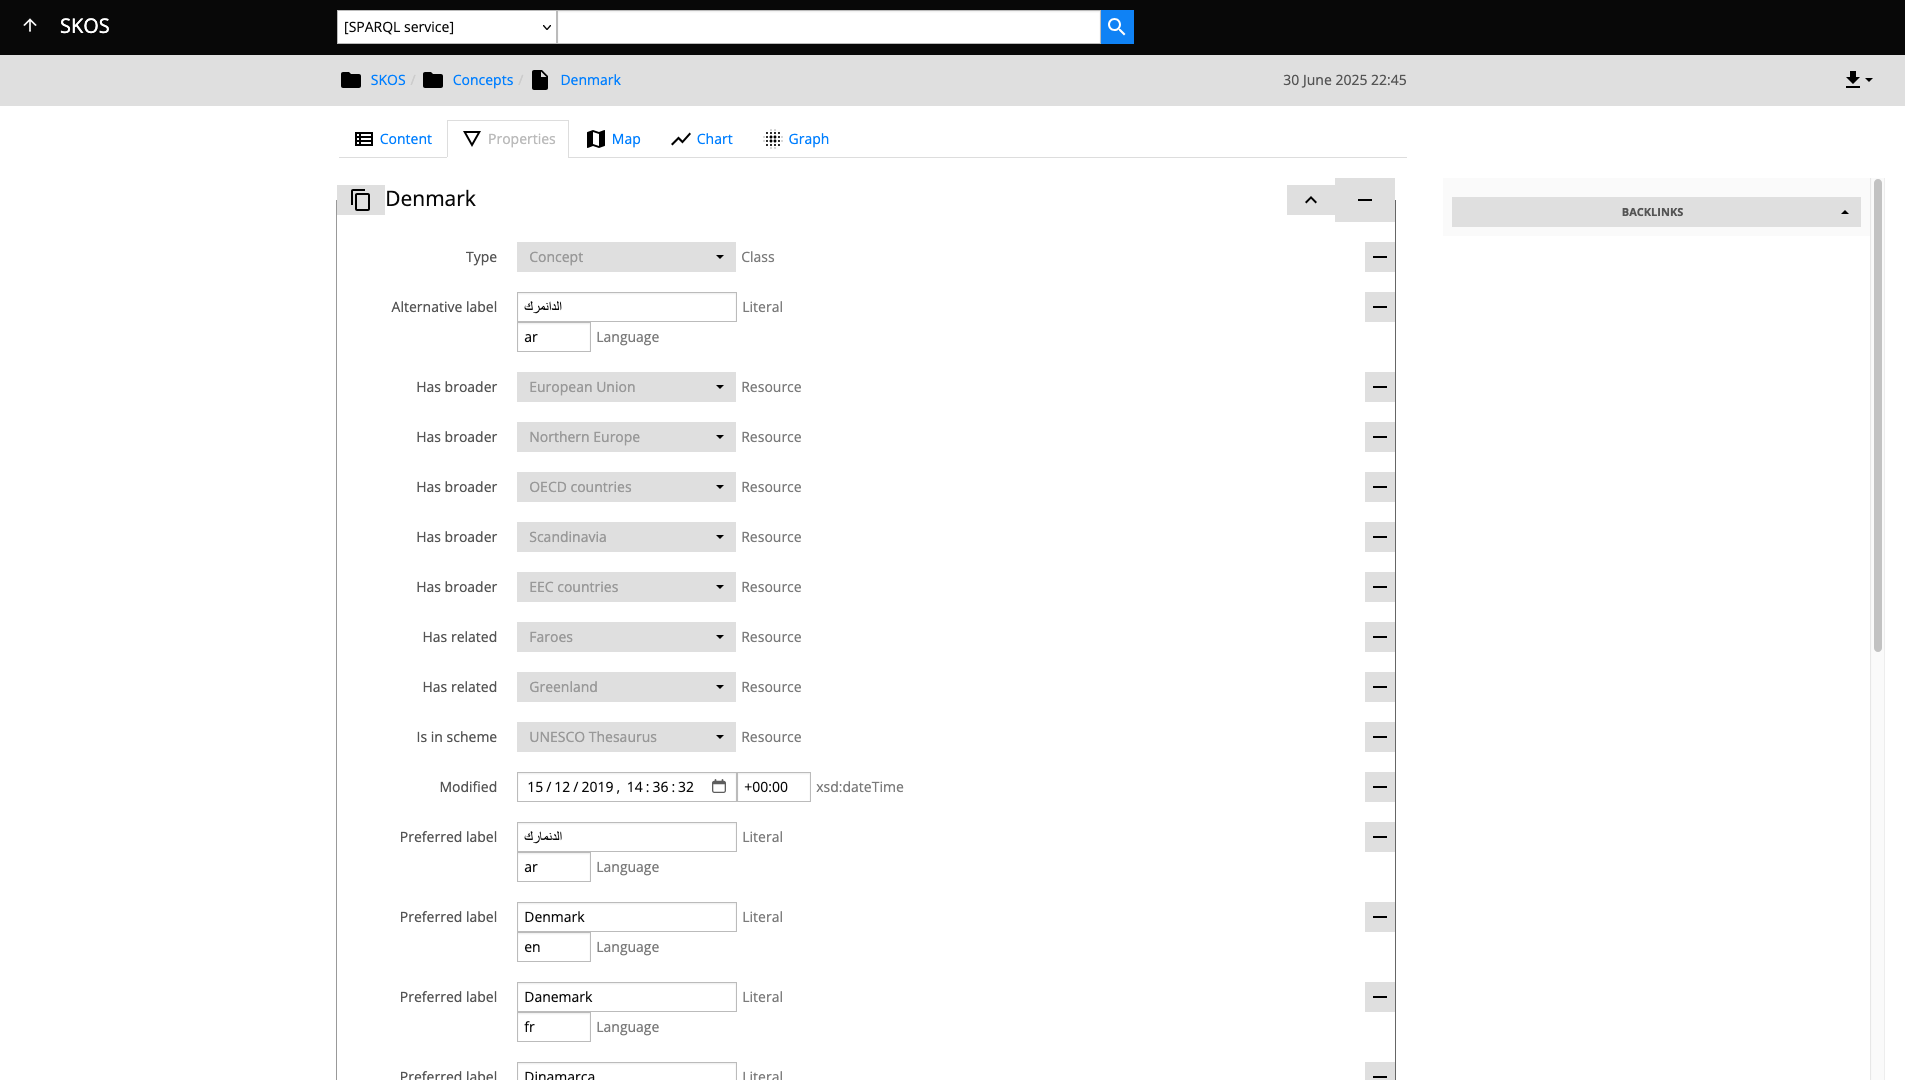
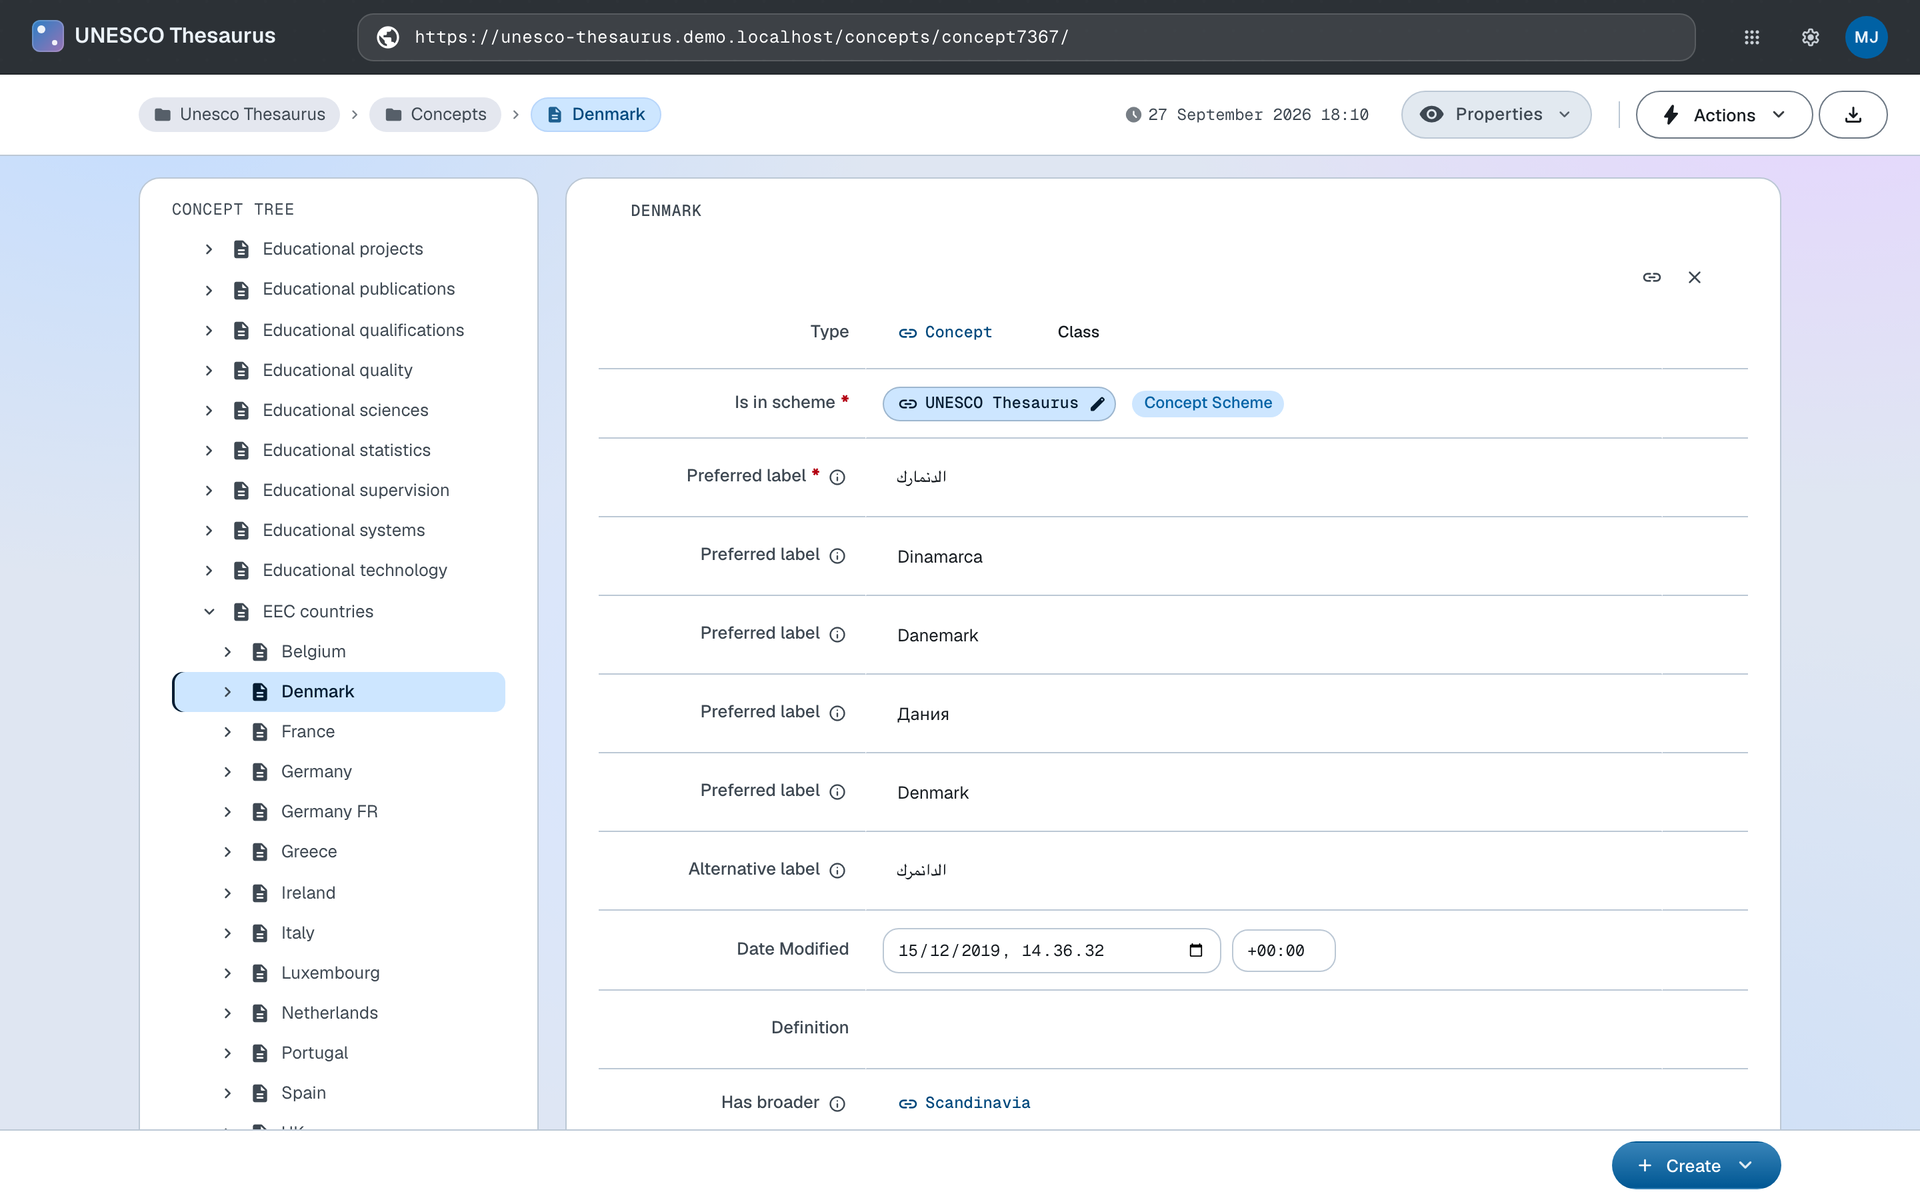
The README describes the repository as it stands, and its demo pictures come from the rig. The bin/ scripts it deprecated are gone, the docs media flow gains its docs-fill step, the SPARQL counts are recounted, Copenhagen is described by what it has - nine facility types from CSV, each on a map, and

diff --git a/README.md b/README.md
@@ -10,8 +10,6 @@ The installation scripts in this repository use [LinkedDataHub's `ldh` CLI](http
 cd ../LinkedDataHub/cli && mvn package && export PATH="$PWD/bin:$PATH"
 ```
 
-The `bin` shell scripts that `ldh` replaces are deprecated. The certificate and WebID tooling in `bin` (`webid-keygen.sh`, `server-cert-gen.sh` and friends) talks to no API and is not.
-
 `make install` prompts for the base URL, the owner's keystore, its password and an optional proxy URL, exports them as the `LDH_*` variables the CLI reads, and runs the app's `install.sh` — every installer sources the shared [`lib/ldh-app.sh`](lib/ldh-app.sh). To install unattended, export the variables and run `./install.sh`.
 
 __Re-running an install converges but is not clean: `ldh push` replaces each document and the namespace ontology is reset before re-import, but `make-public`, `create authorization` and every import are POSTs, so each run adds another authorization and another import record.__
@@ -46,6 +44,7 @@ slot that cannot be shot against the demo data says why instead of going missing
 cd screencast
 node docs/shoot.mjs --base … --cert-file … --cert-password-file …   # into docs/out/
 make docs-publish                                                   # into ../docs/
+make docs-fill                                                      # point the .ttl sources at them
 ```
 
 The shoot writes masters — 2880px lossless PNG, a `.webm` and an `.mp4` per clip.
@@ -53,10 +52,15 @@ The shoot writes masters — 2880px lossless PNG, a `.webm` and an `.mp4` per cl
 to WebP at twice the docs' content width and copying the already-optimised `.mp4`s,
 then prints each published file's SHA-1. That hash is its address: uploads are
 content-addressed at `{base}uploads/{sha1}`, so the bytes have to be final before
-anything references them. The references themselves are plain XHTML in the literal
+anything references them. `make docs-fill` then writes those references into the
+sources, rewriting them in place on a re-shoot. They are plain XHTML in the literal
 bodies — `<img src="/uploads/{sha1}">` and `<video src="/uploads/{sha1}">`, absolute
 because `uploads/` hangs off the base URI outside the document hierarchy — and
 `docs/install.sh` uploads the files along with the documents.
+
+The demo pictures in this README come from the same rig: `make readme-shots` in
+`screencast/` re-shoots them against the three demo dataspaces and writes them into
+their demo folders.
 
 [More on the recording rig →](screencast/README.md)
 
@@ -78,7 +82,7 @@ because `uploads/` hangs off the base URI outside the document hierarchy — and
     <dd><a href="https://atomgraph.github.io/LinkedDataHub/linkeddatahub/docs/reference/imports/csv/" target="_blank">Import from CSV</a></dd>
     <dt>Lines of code</dt>
     <dd>0 lines of imperative code</dd>
-    <dd>681 lines of SPARQL</dd>
+    <dd>641 lines of SPARQL</dd>
     <dd>25 lines of installation shell script</dd>
 </dl>
 
@@ -86,7 +90,7 @@ because `uploads/` hangs off the base URI outside the document hierarchy — and
 
 ![City Graph geospatial view](demo/copenhagen/screenshot.png "City Graph geospatial view")
 
-**Browser of Copenhagen's geospatial open data, imported from [Copenhagen Open Data](https://data.kk.dk/). Provides a type-colored geospatial overview. Geo resources provide a view with neighbouring resources included.**
+**Browser of Copenhagen's geospatial open data, imported from [Copenhagen Open Data](https://data.kk.dk/). Nine facility types — schools, libraries, playgrounds, charging stations and more — each lifted from a CSV file by one mapping query and given coordinates, so every container shows its records on a map. A chart on the front page counts them by type.**
 
 <dl>
     <dt>Source</dt>
@@ -95,9 +99,11 @@ because `uploads/` hangs off the base URI outside the document hierarchy — and
     <dd><a href="https://copenhagen.demo.linkeddatahub.com/" target="_blank">https://copenhagen.demo.linkeddatahub.com/</a></dd>
     <dt>Features</dt>
     <dd><a href="https://atomgraph.github.io/LinkedDataHub/linkeddatahub/docs/reference/imports/csv/" target="_blank">Import from CSV</a></dd>
+    <dd>Map and chart views</dd>
+    <dd><a href="https://atomgraph.github.io/LinkedDataHub/linkeddatahub/docs/reference/administration/ontologies/#constructors" target="_blank">Constructors</a></dd>
     <dt>Lines of code</dt>
     <dd>0 lines of imperative code</dd>
-    <dd>535 lines of SPARQL</dd>
+    <dd>509 lines of SPARQL</dd>
     <dd>25 lines of installation shell script</dd>
 </dl>
 
@@ -106,7 +112,7 @@ because `uploads/` hangs off the base URI outside the document hierarchy — and
 ![SKOS viewer](demo/unesco-thesaurus/screenshot.png "SKOS viewer")
 ![SKOS editor](demo/unesco-thesaurus/screenshot-edit-mode.png "SKOS editor")
 
-**Basic SKOS editor with a custom UI theme. Concepts, collections and concept schemas can be created, edited, and linked with each other. SKOS types have dedicated content templates; constructors are auto-generated during ontology import; constraints are added using CLI script.**
+**Basic SKOS editor with a custom UI theme. Concepts, collections and concept schemes can be created, edited, and linked with each other. The ontology — SKOS constructors, constraints and hierarchy views — and the stylesheet with its concept tree all come from the [taxonomy editor package](packages/editor/taxonomy/), imported by the installer with a single `ldh packages add`.**
 
 <dl>
     <dt>Source</dt>
@@ -114,13 +120,14 @@ because `uploads/` hangs off the base URI outside the document hierarchy — and
     <dt>Live instance</dt>
     <dd><a href="https://unesco-thesaurus.demo.linkeddatahub.com/" target="_blank">https://unesco-thesaurus.demo.linkeddatahub.com/</a></dd>
     <dt>Features</dt>
+    <dd><a href="https://atomgraph.github.io/LinkedDataHub/linkeddatahub/docs/reference/administration/packages/" target="_blank">Package import</a></dd>
     <dd><a href="https://atomgraph.github.io/LinkedDataHub/linkeddatahub/docs/reference/stylesheets/" target="_blank">Custom stylesheet</a></dd>
     <dd><a href="https://atomgraph.github.io/LinkedDataHub/linkeddatahub/docs/reference/administration/ontologies/#classes" target="_blank">Classes</a></dd>
     <dd><a href="https://atomgraph.github.io/LinkedDataHub/linkeddatahub/docs/reference/administration/ontologies/#constructors" target="_blank">Constructors</a></dd>
     <dd><a href="https://atomgraph.github.io/LinkedDataHub/linkeddatahub/docs/reference/administration/ontologies/#constraints" target="_blank">Constraints</a></dd>
     <dt>Lines of code</dt>
     <dd>0 lines of imperative code</dd>
-    <dd>107 lines of SPARQL</dd>
+    <dd>72 lines of SPARQL</dd>
     <dd>44 lines of installation shell script</dd>
     <dd>0 lines of XSLT — the stylesheet comes from the <a href="packages/editor/taxonomy/">taxonomy editor package</a></dd>
 </dl>
@@ -133,11 +140,14 @@ __You need to request append/write access to be able to create/edit the data.__
 
 Packages provide ontology imports and custom XSLT templates for rendering specific RDF vocabularies. They are **composed at request time** out of a declaration: a single `ldh:import` triple in the dataspace's settings, resolved on the next request.
 
+The registry is itself a dataspace, published at https://packages.linkeddatahub.com/ from [`packages/`](packages/) by `make install`. The directory path is the package URI: `packages/editor/taxonomy/` is `https://packages.linkeddatahub.com/editor/taxonomy/#this`.
+
 ### Structure
 
 Each package consists of:
-- **`ns.ttl`** - Ontology with vocabulary imports (`owl:imports`) and property views (`ldh:view` / `ldh:inverseView`)
-- **A stylesheet** - XSLT with custom rendering templates using system modes. The filename is whatever the package's `ac:stylesheet` names.
+- **A descriptor** - the `lds:Package` that is the `foaf:primaryTopic` of the package's document, naming its `lds:ontology` and `ac:stylesheet`
+- **`ns.ttl`** - Ontology with vocabulary imports (`owl:imports`), constructors, constraints and property views (`ldh:view` / `ldh:inverseView`)
+- **A stylesheet** - XSLT with custom rendering templates in the platform's open modes. The filename is whatever the package's `ac:stylesheet` names.
 
 ### Installation
 
@@ -148,7 +158,7 @@ ldh packages list
 ldh packages add --package https://packages.linkeddatahub.com/editor/taxonomy/#this
 ```
 
-From the next request onwards the server resolves it: the package ontology joins the dataspace's `owl:imports` closure, and its stylesheet is composed into the dataspace stylesheet. No restart, and nothing is copied into the webapp.
+From the next request onwards the server resolves it: the package ontology is materialised as an editable document under the admin `ontologies/` container and joins the dataspace's `owl:imports` closure, and the package stylesheet is copied under `/static/com/linkeddatahub/packages/` and composed into the dataspace stylesheet. No restart is needed. Both copies are taken once, at import, so a later change to the published package does not reach a dataspace that already imported it until the materialised ontology document is deleted and the ontology cache is cleared.
 
 ### Available Packages
 
@@ -157,8 +167,8 @@ From the next request onwards the server resolves it: the package ontology joins
 ### Architecture
 
 - **Declarative only** - RDF + XSLT, no Java code
-- **Request-time composition** - resolved from the `ldh:import` declaration, nothing copied into the webapp
+- **Request-time composition** - resolved from the `ldh:import` declaration; the ontology and stylesheet are copied once at import, never into the webapp
 - **Property views** (`ldh:view` / `ldh:inverseView`) - SPARQL-based views attached to properties
-- **XSLT overrides** - Custom rendering using system modes (`ac:*`, `ldh:*`, `xhtml:*`, etc.)
+- **XSLT overrides** - Custom rendering in the open modes (`ldh:TreeNode`, `ac:PropertyEditor`, `ac:FormControl` and the others `hooks.xsl` declares), imported right after `hooks.xsl` so a package rule outranks the generic fallbacks and nothing else
 
 [Read the full packages documentation →](packages/README.md)

diff --git a/screencast/README.md b/screencast/README.md
@@ -235,6 +235,22 @@ build rewrites `uploads/{sha1}` to `files/{name}` through `docs/files.xml`,
 terminating on a hash it cannot find — so a clean `make ttl-to-html` is the proof
 that every baked hash resolves.
 
+## README pictures
+
+The repository README's demo pictures — the Northwind parallax GIF, the Copenhagen
+school map and the two UNESCO Thesaurus stills — are shot by `readme/shoot.mjs`, with
+the same want-before-capture rule as the docs shoot.
+
+```bash
+make readme-shots   # defaults to https://{app}.demo.localhost on the linkeddatahub.com stack
+```
+
+They span three dataspaces, so the base is a pattern and `{app}` is each demo's folder
+name. Nothing content-addresses these files, so they are written straight into
+`../demo/*/` under the names the README links and each demo's `.ldhignore` skips:
+stills downscaled to 1920px from 2x masters, the GIF at 960px and 12 fps from the
+recorded `.webm`, trimmed to start at the gesture. The masters go to `readme/out/`.
+
 ## Rules the scenes follow
 
 - **Open on the strongest frame the data gives.** A scene begins on a document whose
